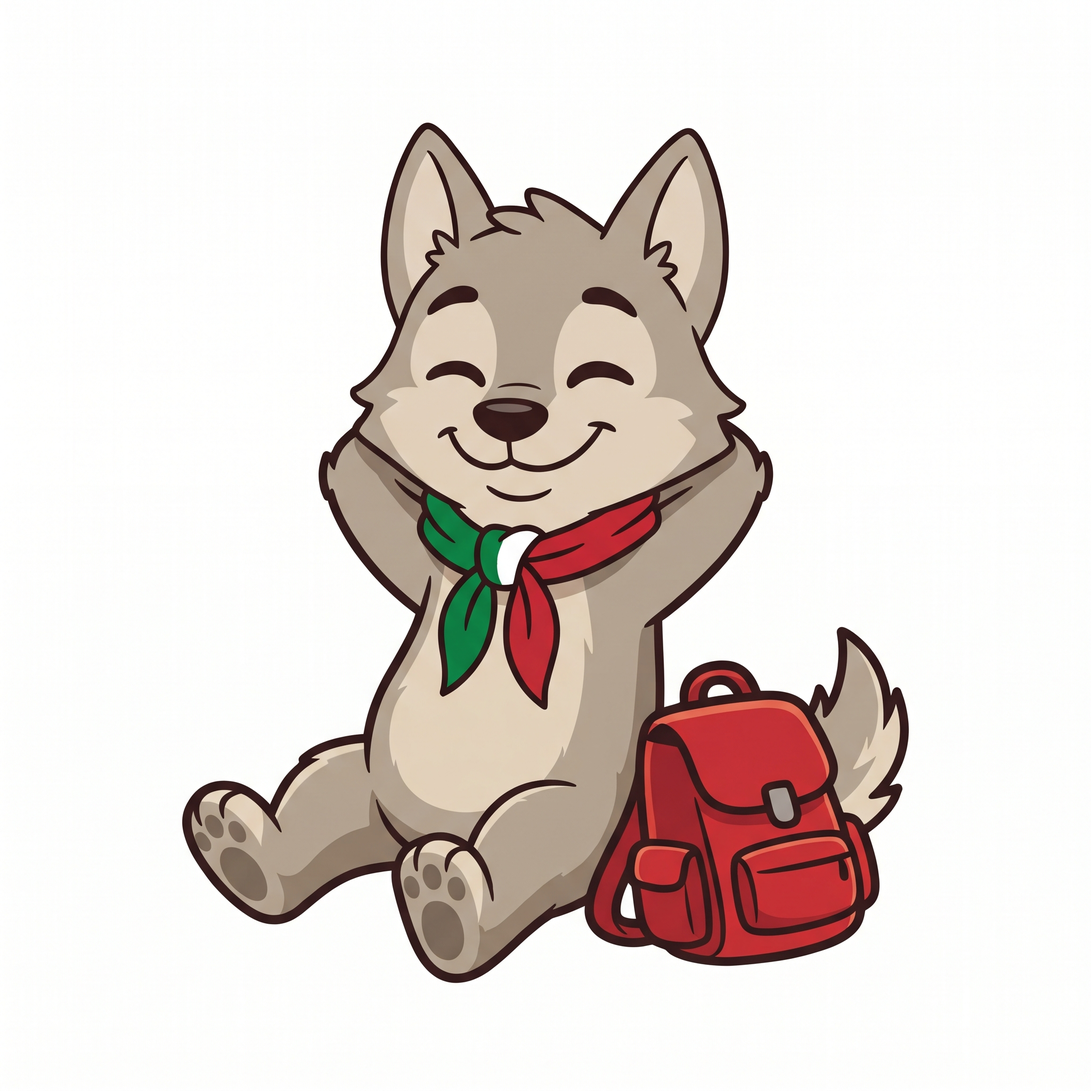
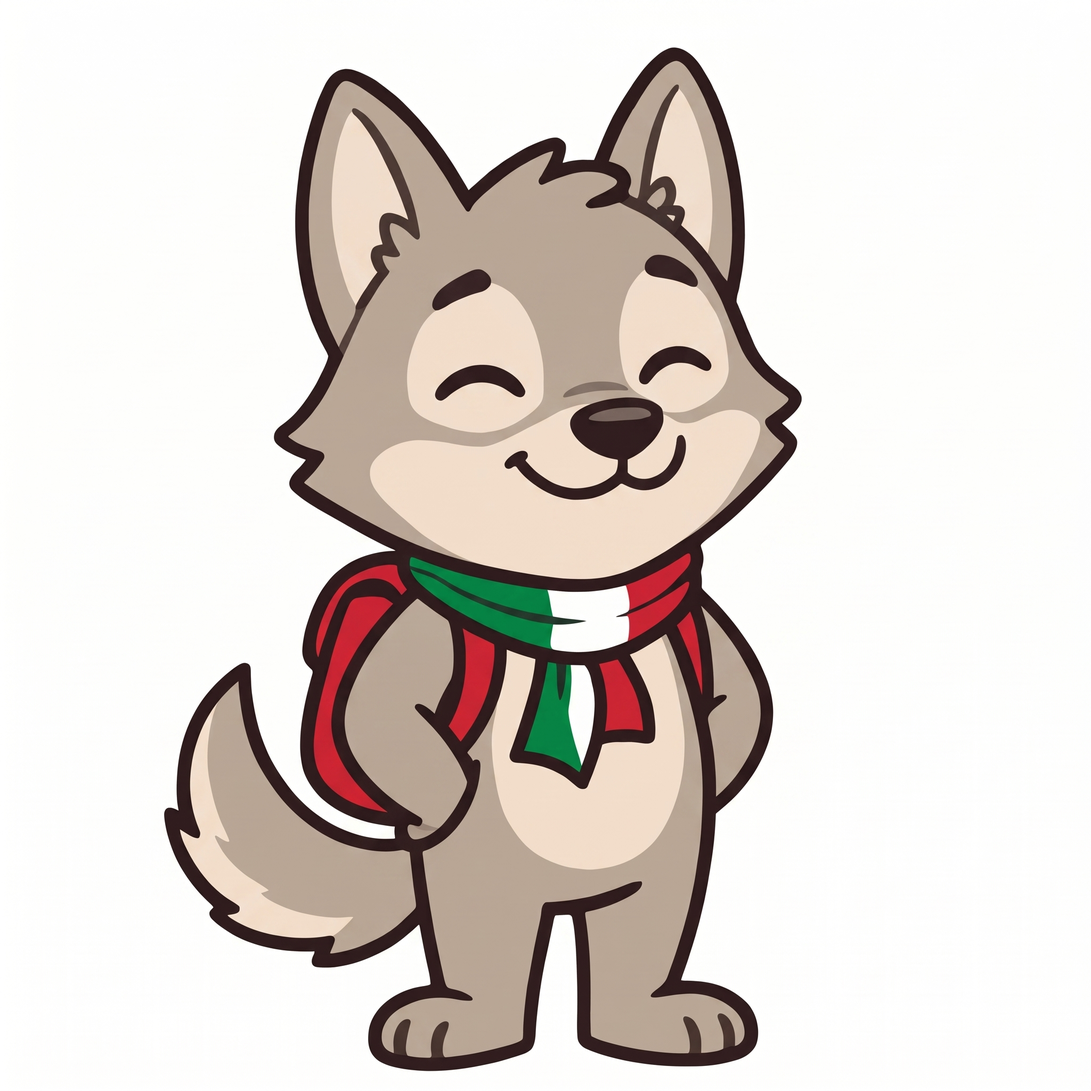
feat(mascot): noul desen „relax” și scriptul merge și pe Python 3.14
Lupino relaxat e redesenat (în picioare, ochii închiși, zâmbind), deci găurile
ghiozdanului din desenul vechi nu mai există și coordonatele lor sunt scoase.
vtracer 0.6.15 cade (segmentation fault) pe Python 3.14 când primește argumentele cu
nume; scriptul le dă acum poziționale. Rezultatul e identic pe 3.9 și 3.14.

diff --git a/scripts/design/mascot.py b/scripts/design/mascot.py
@@ -27,8 +27,9 @@ ICONS = ROOT / "public/icons"
 
 POSES = ["ciao", "in-bocca-al-lupo", "bravo", "serie", "pensa", "a-domani", "relax", "cap"]
 # zone închise în care se vede fundalul (de aceeași culoare cu albul din desen, deci nu se pot deosebi automat):
-# câte un punct din fiecare, în pixelii desenului sursă; se fac transparente
-HOLES = {"relax": [(1179, 1690), (1352, 1297)]}
+# câte un punct din fiecare, în pixelii desenului sursă; se fac transparente. Exemplu: {"relax": [(1179, 1690)]}.
+# Când refaci un desen, verifică dacă punctele mai cad în găuri (scriptul se oprește cu eroare dacă nu).
+HOLES: dict[str, list[tuple[int, int]]] = {}
 # desenele cu margini mari se decupează la conținut, ca personajul să aibă aceeași mărime ca în celelalte
 CROP_TO_CONTENT = {"relax"}
 WORK_SIZE = 1160  # latura la care se trasează (desenele de 580 px, mărite de 2 ori)
@@ -109,12 +110,20 @@ def trace(img: Image.Image) -> str:
     with tempfile.TemporaryDirectory() as tmp:
         png, svg_path = Path(tmp) / "in.png", Path(tmp) / "out.svg"
         img.save(png)
+        # argumente poziționale: cu nume, vtracer 0.6.15 cade (segmentation fault) pe Python 3.14
         vtracer.convert_image_to_svg_py(
             str(png), str(svg_path),
-            colormode="color", hierarchical="stacked", mode="spline",
-            filter_speckle=10, color_precision=6, layer_difference=18,
-            corner_threshold=80, length_threshold=8.0, max_iterations=10,
-            splice_threshold=60, path_precision=0,
+            "color",  # colormode
+            "stacked",  # hierarchical
+            "spline",  # mode
+            10,  # filter_speckle
+            6,  # color_precision
+            18,  # layer_difference
+            80,  # corner_threshold
+            8.0,  # length_threshold
+            10,  # max_iterations
+            60,  # splice_threshold
+            0,  # path_precision
         )
         svg = svg_path.read_text()
 
